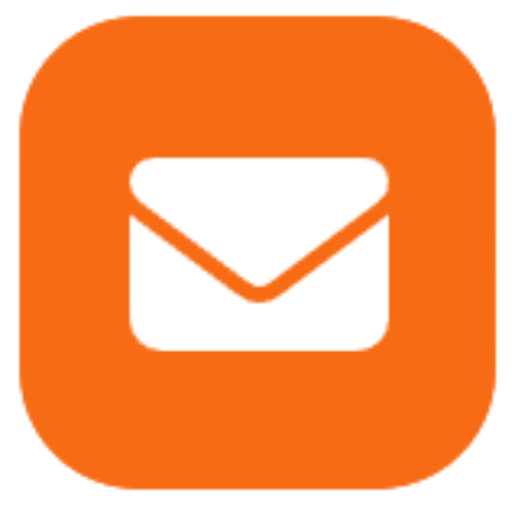
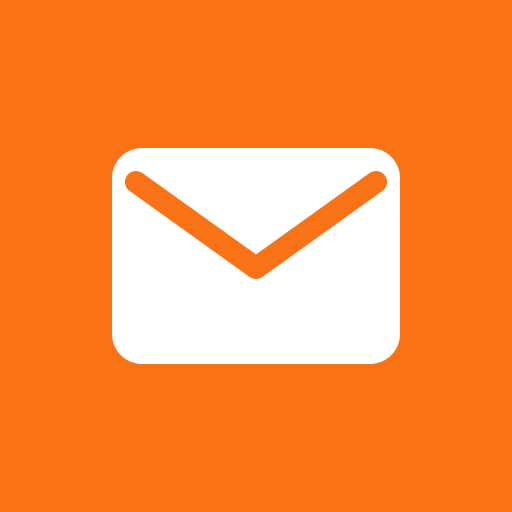
refactor: improve mobile layout and responsiveness for contacts and theme colors

Changed region(s): [[0.0, 0.0, 1.0, 1.0], [0.2188, 0.2812, 0.7812, 0.7188]]

diff --git a/src/components/contacts/index.tsx b/src/components/contacts/index.tsx
@@ -376,26 +376,47 @@ function ContactPage() {
 
   return (
     <div className=" bg-[var(--gray-1)] flex flex-col">
-      <div className="flex-shrink-0 p-6 max-w-[1800px] mx-auto w-full">
-        <div className="mb-1 pb-4 flex justify-between border-b border-[var(--gray-5)]">
-          <div>
-            <h1 className="text-2xl font-bold text-[var(--gray-12)]">Contact Manager</h1>
-            <p className="text-sm text-[var(--gray-11)] mt-1">Manage your contact directory</p>
+      {/* Mobile: compact header without the dividing line, buttons as icons */}
+      <div
+        className={`flex-shrink-0 max-w-[1800px] mx-auto w-full ${isMobile ? 'px-4 pt-4 pb-2' : 'p-6'}`}
+      >
+        <div
+          className={`flex justify-between items-center gap-3 ${
+            isMobile ? '' : 'mb-1 pb-4 border-b border-[var(--gray-5)]'
+          }`}
+        >
+          <div className="min-w-0">
+            <h1
+              className={`font-bold text-[var(--gray-12)] truncate ${isMobile ? 'text-xl' : 'text-2xl'}`}
+            >
+              {isMobile ? 'Contacts' : 'Contact Manager'}
+            </h1>
+            {!isMobile && (
+              <p className="text-sm text-[var(--gray-11)] mt-1">Manage your contact directory</p>
+            )}
           </div>
 
-          <div className="flex items-center gap-3">
+          <div className={`flex items-center flex-shrink-0 ${isMobile ? 'gap-2' : 'gap-3'}`}>
             <button
               onClick={() => setShowCreateModal(true)}
-              className="px-4 py-2 bg-[var(--accent-9)] text-white rounded-md hover:bg-[var(--accent-10)] transition-colors flex items-center gap-2 text-sm font-medium"
+              aria-label="Create contact"
+              title="Create contact"
+              className={`bg-[var(--accent-9)] text-white rounded-md hover:bg-[var(--accent-10)] transition-colors flex items-center gap-2 text-sm font-medium ${
+                isMobile ? 'p-2.5' : 'px-4 py-2'
+              }`}
             >
               <FaPlus className="w-3.5 h-3.5" />
-              {isMobile ? ' ' : 'Create Contact'}
+              {!isMobile && 'Create Contact'}
             </button>
 
             <DropdownWrapper
               items={bulkActionItems}
               trigger={
-                <button className="px-4 py-2 bg-[var(--gray-3)] text-[var(--gray-12)] border border-[var(--gray-6)] rounded-md hover:bg-[var(--gray-4)] transition-colors flex items-center gap-2 text-sm font-medium">
+                <button
+                  className={`bg-[var(--gray-3)] text-[var(--gray-12)] border border-[var(--gray-6)] rounded-md hover:bg-[var(--gray-4)] transition-colors flex items-center gap-2 text-sm font-medium ${
+                    isMobile ? 'px-3 py-2' : 'px-4 py-2'
+                  }`}
+                >
                   {!isMobile && <FaPlus className="w-3.5 h-3.5" />}
                   {isMobile ? 'Actions ' : 'Bulk Actions'}
                   <FaChevronDown className="w-3 h-3" />
@@ -406,17 +427,22 @@ function ContactPage() {
             {selectedContacts.length > 0 && !isError && (
               <button
                 onClick={handleBulkDelete}
-                className="px-4 py-2 bg-[var(--red-9)] text-white rounded-md hover:bg-[var(--red-10)] transition-colors flex items-center gap-2 text-sm font-medium"
+                aria-label={`Delete ${selectedContacts.length} contacts`}
+                className={`bg-[var(--red-9)] text-white rounded-md hover:bg-[var(--red-10)] transition-colors flex items-center gap-2 text-sm font-medium ${
+                  isMobile ? 'px-3 py-2' : 'px-4 py-2'
+                }`}
               >
                 <FaTrash className="w-3.5 h-3.5" />
-                Delete ({selectedContacts.length})
+                {isMobile ? selectedContacts.length : `Delete (${selectedContacts.length})`}
               </button>
             )}
           </div>
         </div>
       </div>
 
-      <div className="flex-1 min-h-0 px-6 max-w-[1800px] mx-auto w-full pb-6">
+      <div
+        className={`flex-1 min-h-0 max-w-[1800px] mx-auto w-full ${isMobile ? 'pb-20' : 'px-6 pb-6'}`}
+      >
         {isError ? (
           <div className="bg-[var(--gray-1)] rounded-lg border border-[var(--red-5)] p-12 text-center">
             <FaExclamationTriangle className="w-12 h-12 text-[var(--red-9)] mx-auto mb-4" />
@@ -436,12 +462,17 @@ function ContactPage() {
             </button>
           </div>
         ) : (
-          <div className="bg-[var(--gray-1)] rounded-lg border border-[var(--gray-5)] flex flex-col h-full overflow-hidden">
+          <div
+            className={`bg-[var(--gray-1)] flex flex-col h-full ${
+              isMobile ? '' : 'rounded-lg border border-[var(--gray-5)] overflow-hidden'
+            }`}
+          >
             {hasContacts ? (
               <>
-                <div className="h-[70vh] overflow-auto">
+                {/* Mobile: the page scrolls, one plain list (no box around it) */}
+                <div className={isMobile ? '' : 'h-[70vh] overflow-auto'}>
                   {isMobile ? (
-                    <div className="p-4 space-y-3">
+                    <div className="divide-y divide-[var(--gray-4)] border-y border-[var(--gray-4)]">
                       {contacts.map((contact) => (
                         <ContactCard
                           key={contact.contact_id}
@@ -464,7 +495,11 @@ function ContactPage() {
                     />
                   )}
                 </div>
-                <div className="flex-shrink-0 p-4 border-t border-[var(--gray-5)] bg-[var(--gray-1)]">
+                <div
+                  className={`flex-shrink-0 bg-[var(--gray-1)] ${
+                    isMobile ? 'px-4 py-3' : 'p-4 border-t border-[var(--gray-5)]'
+                  }`}
+                >
                   <Pagination
                     perPage={perPage}
                     data={contactsData}

diff --git a/tests/hooks/timezoneData.test.ts b/tests/hooks/timezoneData.test.ts
@@ -1,0 +1,46 @@
+/*
+ * Copyright (C) 2026 Yukthi Systems Private Limited
+ *
+ * This program is free software: you can redistribute it and/or modify
+ * it under the terms of the GNU General Public License version 3
+ * as published by the Free Software Foundation.
+ *
+ * This program is distributed in the hope that it will be useful,
+ * but WITHOUT ANY WARRANTY; without even the implied warranty of
+ * MERCHANTABILITY or FITNESS FOR A PARTICULAR PURPOSE.  See the
+ * GNU General Public License for more details.
+ *
+ * You should have received a copy of the GNU General Public License
+ * version 3 along with this program. If not, see
+ * <https://www.gnu.org/licenses/>.
+ */
+
+import { describe, expect, it } from 'vitest';
+import moment from 'moment-timezone/builds/moment-timezone-with-data-1970-2030';
+
+// The smaller time zone data (1970-2030) must give the same times as the full set
+describe('time zone data used for email dates', () => {
+  const at = (iso: string, zone: string) => moment.utc(iso).tz(zone).format('YYYY-MM-DD HH:mm Z');
+
+  it('India (no daylight saving)', () => {
+    expect(at('2026-11-27T08:50:26Z', 'Asia/Kolkata')).toBe('2026-11-27 14:20 +05:30');
+  });
+
+  it('New York in winter and in summer (daylight saving)', () => {
+    expect(at('2026-01-15T12:00:00Z', 'America/New_York')).toBe('2026-01-15 07:00 -05:00');
+    expect(at('2026-07-15T12:00:00Z', 'America/New_York')).toBe('2026-07-15 08:00 -04:00');
+  });
+
+  it('London and Sydney, older emails too', () => {
+    expect(at('2012-07-01T12:00:00Z', 'Europe/London')).toBe('2012-07-01 13:00 +01:00');
+    expect(at('2015-01-01T00:00:00Z', 'Australia/Sydney')).toBe('2015-01-01 11:00 +11:00');
+  });
+
+  it('knows every zone in the Settings list', async () => {
+    const { TIMEZONES } = await import('../../src/utils/constants');
+    const missing = TIMEZONES.map((t: { value: string }) => t.value).filter(
+      (zone: string) => zone !== 'UTC' && !moment.tz.zone(zone)
+    );
+    expect(missing).toEqual([]);
+  });
+});

diff --git a/src/components/contacts/ContactCard.tsx b/src/components/contacts/ContactCard.tsx
@@ -38,9 +38,10 @@ export function ContactCard({ contact, isSelected, onSelect, onEdit, onDelete }:
   };
 
   return (
+    // A row of the mobile list: the list draws the lines between rows
     <div
-      className={`bg-[var(--gray-2)] border rounded-lg p-4 transition-colors ${
-        isSelected ? 'border-[var(--accent-8)] bg-[var(--accent-3)]' : 'border-[var(--gray-6)]'
+      className={`px-4 py-3 transition-colors ${
+        isSelected ? 'bg-[var(--accent-3)]' : 'bg-[var(--gray-1)] active:bg-[var(--gray-3)]'
       }`}
     >
       <div className="flex items-start gap-3">
@@ -68,12 +69,14 @@ export function ContactCard({ contact, isSelected, onSelect, onEdit, onDelete }:
         <div className="flex items-center gap-1">
           <button
             onClick={onEdit}
+            aria-label="Edit contact"
             className="p-2 text-[var(--gray-11)] hover:text-[var(--accent-11)] hover:bg-[var(--gray-4)] rounded transition-colors"
           >
             <FaEdit className="w-4 h-4" />
           </button>
           <button
             onClick={onDelete}
+            aria-label="Delete contact"
             className="p-2 text-[var(--gray-11)] hover:text-[var(--red-11)] hover:bg-[var(--gray-4)] rounded transition-colors"
           >
             <FaTrash className="w-4 h-4" />
@@ -82,8 +85,8 @@ export function ContactCard({ contact, isSelected, onSelect, onEdit, onDelete }:
       </div>
 
       {contact.notes && (
-        <div className="mt-3 pt-3 border-t border-[var(--gray-6)]">
-          <p className="text-sm text-[var(--gray-11)] line-clamp-2">{contact.notes}</p>
+        <div className="mt-1 pl-[60px]">
+          <p className="text-xs text-[var(--gray-10)] line-clamp-2">{contact.notes}</p>
         </div>
       )}
     </div>

diff --git a/vite.config.ts b/vite.config.ts
@@ -70,8 +70,9 @@ export default defineConfig(({ mode }) => {
           name: 'Mail Service 25',
           short_name: 'Webmail',
           description: 'A modern, fast webmail client built with React and TanStack.',
-          theme_color: '#f97316',
-          background_color: '#ffffff',
+          // Status / title bar: the app's background, not the brand orange
+          theme_color: '#fcfcfc',
+          background_color: '#fcfcfc',
           display: 'standalone',
           start_url: '/', 
           scope: '/',
@@ -125,6 +126,20 @@ export default defineConfig(({ mode }) => {
               src: 'icons/icon-512x512.png',
               sizes: '512x512',
               type: 'image/png',
+            },
+            // Full-bleed with the envelope inside the safe zone: Android may crop it
+            // to its own shape (circle, squircle) without a white border
+            {
+              src: 'icons/icon-192x192.png',
+              sizes: '192x192',
+              type: 'image/png',
+              purpose: 'maskable',
+            },
+            {
+              src: 'icons/icon-512x512.png',
+              sizes: '512x512',
+              type: 'image/png',
+              purpose: 'maskable',
             },
           ],
         },

diff --git a/index.html b/index.html
@@ -20,7 +20,9 @@
   <head>
     <meta charset="UTF-8" />
     <meta name="viewport" content="width=device-width, initial-scale=1.0, viewport-fit=cover" />
-    <meta name="theme-color" content="#f97316" />
+    <!-- Status bar: the app's background (light or dark), set from the theme setting once it loads -->
+    <meta name="theme-color" content="#fcfcfc" media="(prefers-color-scheme: light)" />
+    <meta name="theme-color" content="#111111" media="(prefers-color-scheme: dark)" />
     <link rel="apple-touch-icon" href="/apple-touch-icon.png" />
     <link href="/src/index.css" rel="stylesheet" />
     <link rel="icon" type="image/svg+xml" href="/favicon.ico" />
@@ -48,7 +50,7 @@
 
       /* Light mode colors */
       :root {
-        --color-background: #ffffff;
+        --color-background: #fcfcfc;
         --color-text: #1e293b;
         --color-text-secondary: #64748b;
         --color-accent: #f97316;
@@ -59,7 +61,7 @@
       /* Dark mode colors */
       @media (prefers-color-scheme: dark) {
         :root {
-          --color-background: #0f172a;
+          --color-background: #111111;
           --color-text: #f1f5f9;
           --color-text-secondary: #94a3b8;
           --color-accent: #f97316;

diff --git a/src/components/login/LoginAppInfo.tsx b/src/components/login/LoginAppInfo.tsx
@@ -18,6 +18,12 @@
 import { API_CONFIG } from '../../constants/config';
 import { confirmAndResetApp } from '../../utils/appUpdate';
 
+/** "v1.5.9 · mww0y4eu": the app version and the short build id (also in the sidebar) */
+export const appVersionLabel = () =>
+  `v${API_CONFIG.version}${
+    API_CONFIG.bundleBuildId ? ` · ${API_CONFIG.bundleBuildId.split('-')[0]}` : ''
+  }`;
+
 /** "Reset app" link, version and build id under the login form. */
 export const LoginAppInfo = ({ className = '' }: { className?: string }) => (
   <p className={`text-[11px] ${className}`}>
@@ -30,8 +36,7 @@ export const LoginAppInfo = ({ className = '' }: { className?: string }) => (
       Having trouble? Reset app
     </button>
     <span title={`Build ${API_CONFIG.bundleBuildId}`} className="whitespace-nowrap">
-      v{API_CONFIG.version}
-      {API_CONFIG.bundleBuildId && ` · ${API_CONFIG.bundleBuildId.split('-')[0]}`}
+      {appVersionLabel()}
     </span>
   </p>
 );

diff --git a/src/components/ui/ThemeWrapper.tsx b/src/components/ui/ThemeWrapper.tsx
@@ -15,7 +15,7 @@
  * <https://www.gnu.org/licenses/>.
  */
 
-import React from 'react';
+import React, { useEffect } from 'react';
 import { Theme } from '@radix-ui/themes';
 import { useAtomValue } from 'jotai';
 import { userSettingsAtom } from '../../state/settings';
@@ -30,6 +30,13 @@ const ThemeWrapper: React.FC<DynamicThemeProps> = ({ children }) => {
   // Get theme settings from user preferences or use defaults
   const appearance = userSettings?.ui?.theme === 'dark' ? 'dark' : 'light';
   const accentColor = userSettings?.ui?.color_scheme || 'orange';
+
+  useEffect(() => {
+    const color = appearance === 'dark' ? '#111111' : '#fcfcfc';
+    document
+      .querySelectorAll<HTMLMetaElement>('meta[name="theme-color"]')
+      .forEach((meta) => meta.setAttribute('content', color));
+  }, [appearance]);
 
   return (
     <Theme

diff --git a/src/components/mailbox/Folders/index.tsx b/src/components/mailbox/Folders/index.tsx
@@ -16,6 +16,8 @@
  */
 
 // src/components/layout/Folders.tsx
+import { API_CONFIG } from '../../../constants/config';
+import { appVersionLabel } from '../../login/LoginAppInfo';
 import {
   FaInbox,
   FaPaperPlane,
@@ -554,6 +556,15 @@ const Folders = forwardRef<{ focusFirstFolder: () => void }, FoldersProps>(
 
           <div className="mb-2">
             <StorageQuota quota={folderQuota} isCollapsed={!isExpanded} />
+            {/* Version and build, as on the login page (for support) */}
+            {isExpanded && (
+              <p
+                className="px-3 pt-1 text-[10px] text-[var(--gray-9)] select-text"
+                title={`Build ${API_CONFIG.bundleBuildId || 'unknown'}`}
+              >
+                {appVersionLabel()}
+              </p>
+            )}
           </div>
         </div>
       </>

diff --git a/src/hooks/useTimezone.ts b/src/hooks/useTimezone.ts
@@ -16,7 +16,8 @@
  */
 
 import { useAtomValue } from 'jotai';
-import moment, { type MomentInput } from 'moment-timezone';
+
+import moment, { type MomentInput } from 'moment-timezone/builds/moment-timezone-with-data-1970-2030';
 import { userSettingsAtom } from '../state/settings';
 import { parseEmailDate } from '../utils/dateFormat';
 
